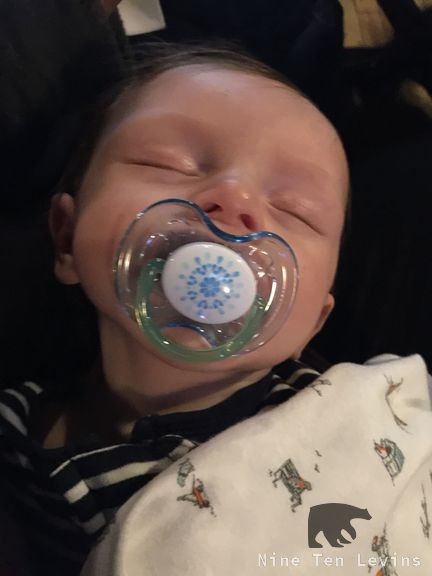
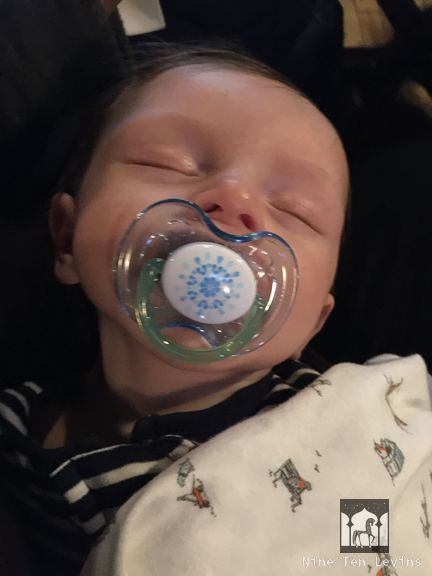
Fixed photos watermark.

Changed region(s): [[0.6019, 0.8438, 0.963, 1.0]]

diff --git a/drafts/soyouwanttojointheforeignservicepart3.html b/drafts/soyouwanttojointheforeignservicepart3.html
@@ -1,7 +1,7 @@
 <!DOCTYPE html>
 <html lang="en" prefix="og: http://ogp.me/ns# fb: https://www.facebook.com/2008/fbml">
 <head>
-    <title>So You Want to Join the Foreign Service, Part 1 - Nine Ten Levins</title>
+    <title>So You Want to Join the Foreign Service, Part 3 - Nine Ten Levins</title>
     <!-- Using the latest rendering mode for IE -->
     <meta http-equiv="X-UA-Compatible" content="IE=edge">
     <meta charset="utf-8">
@@ -11,20 +11,20 @@
     <link href="http://ninetenlevins.com/theme/images/apple-touch-icon.png" rel="icon">
     <link rel="apple-touch-icon" href="http://ninetenlevins.com/theme/images/apple-touch-icon.png">
 
-<link rel="canonical" href="http://ninetenlevins.com/drafts/soyouwanttojointheforeignservicepart1.html">
+<link rel="canonical" href="http://ninetenlevins.com/drafts/soyouwanttojointheforeignservicepart3.html">
 
         <meta name="author" content="Brian Levin" />
-        <meta name="keywords" content="Work" />
-        <meta name="description" content="Joining the Foreign Service, Part 1. Let’s follow Brian as he completes the FS IMS application." />
+        <meta name="keywords" content="Application" />
+        <meta name="description" content="Joining the Foreign Service, Part 3. Cramming For Orals." />
 
         <meta property="og:site_name" content="Nine Ten Levins" />
         <meta property="og:type" content="article"/>
-        <meta property="og:title" content="So You Want to Join the Foreign Service, Part 1"/>
-        <meta property="og:url" content="http://ninetenlevins.com/drafts/soyouwanttojointheforeignservicepart1.html"/>
-        <meta property="og:description" content="Joining the Foreign Service, Part 1. Let’s follow Brian as he completes the FS IMS application."/>
-        <meta property="article:published_time" content="2015-12-15" />
+        <meta property="og:title" content="So You Want to Join the Foreign Service, Part 3"/>
+        <meta property="og:url" content="http://ninetenlevins.com/drafts/soyouwanttojointheforeignservicepart3.html"/>
+        <meta property="og:description" content="Joining the Foreign Service, Part 3. Cramming For Orals."/>
+        <meta property="article:published_time" content="2016-02-20" />
             <meta property="article:section" content="Foreign Service" />
-            <meta property="article:tag" content="Work" />
+            <meta property="article:tag" content="Application" />
             <meta property="article:author" content="Brian Levin" />
 
 
@@ -85,10 +85,10 @@ role="navigation">
         <article>
             <header class="page-header">
                 <h1>
-                    <a href="http://ninetenlevins.com/drafts/soyouwanttojointheforeignservicepart1.html"
+                    <a href="http://ninetenlevins.com/drafts/soyouwanttojointheforeignservicepart3.html"
                        rel="bookmark"
-                       title="Permalink to So You Want to Join the Foreign Service, Part 1">
-                        So You Want to Join the Foreign Service, Part&nbsp;1
+                       title="Permalink to So You Want to Join the Foreign Service, Part 3">
+                        So You Want to Join the Foreign Service, Part&nbsp;3
                     </a>
                 </h1>
             </header>
@@ -100,8 +100,8 @@ role="navigation">
 <ol>
 <li><del>Meet the requirement for the position (e.g. get my <span class="caps">CISSP</span>)</del> <strong><em>Completed&nbsp;2015-09-20</em></strong></li>
 <li><del>Apply to the USAJobs posting</del> <strong><em>Completed&nbsp;2015-12-15</em></strong></li>
-<li>Pass qualified evaluations&nbsp;panel</li>
-<li>Pass the oral&nbsp;assessment</li>
+<li><del>Pass qualified evaluations panel</del> <strong><em>Completed&nbsp;2015-02-20</em></strong></li>
+<li><del>Pass the oral assessment</del> <strong><em>Completed&nbsp;2015-05-12</em></strong></li>
 <li>Get medical&nbsp;clearance</li>
 <li>Get security&nbsp;clearance</li>
 <li>Pass final suitability review&nbsp;panel</li>
@@ -109,25 +109,6 @@ role="navigation">
 <li>Be selected off the register for an A100&nbsp;class</li>
 <li>Success!</li>
 </ol>
-<h1 id="applications-away">Applications&nbsp;Away</h1>
-<p>I just put in my application to be a <a href="https://www.usajobs.gov/GetJob/ViewDetails/422461600">Foreign Service Information Management Specialist</a><sup id="fnref:1"><a class="footnote-ref" href="#fn:1" rel="footnote">1</a></sup>. I have always wanted to join the foreign service, but I was not interested in the generalist job activities. The Information Management Specialist matched my interests but you needed a degree in computer science or one of the <a href="https://careers.state.gov/work/foreign-service/specialist/career-track-quiz/ims">approved certifications</a>. For a long time I had neither. I have a degree in an applied social sciences<sup id="fnref:1.5"><a class="footnote-ref" href="#fn:1.5" rel="footnote">2</a></sup> and going back for a <span class="caps">CS</span> degree was unappealing. The shortest distance between me and my goal was to get a&nbsp;certification.</p>
-<p>I had waffled on getting the certification for years. The one that made the most sense was the <a href="https://www.isc2.org/cissp/default.aspx"><span class="caps">CISSP</span></a>. My job is mostly devops and infrastructure programming. A lot of my work is tied to security. I did not need a certification for my current<sup id="fnref:2"><a class="footnote-ref" href="#fn:2" rel="footnote">3</a></sup> or any of my previous jobs, so it was never a&nbsp;priority.</p>
-<p>This year was a bit of a roller coaster. My brother passed away and my wife is expecting our first born. I decided that life is short, it is now or never. I signed up for the <a href="https://www.isc2.org/cissp/default.aspx"><span class="caps">CISSP</span></a> exam in October and passed! Step one complete. After passing it was just a waiting game until they opened the application process. The call for applicants opened at the beginning of December and I have been working on the application ever since. I spent a good amount of time working on the essays and polishing my&nbsp;resume.</p>
-<p>I just submitted my application. I am very hopeful that I will advance in the process. Fingers&nbsp;crossed!</p>
-<div class="footnote">
-<hr/>
-<ol>
-<li id="fn:1">
-<p>I am not sure I will publish this blog entry. I guess it depends on my success in the application process. So, if you are reading this, I have been hired.&nbsp;<a class="footnote-backref" href="#fnref:1" rev="footnote" title="Jump back to footnote 1 in the text">↩</a></p>
-</li>
-<li id="fn:1.5">
-<p>I know what you are thinking, I wasted my youth. But, those were different times. We were so young and hopeful.&nbsp;<a class="footnote-backref" href="#fnref:1.5" rev="footnote" title="Jump back to footnote 2 in the text">↩</a></p>
-</li>
-<li id="fn:2">
-<p>Bonus! My current job paid for most of my certification because it was covered under career development funds. Turns out all I had to do was ask.&nbsp;<a class="footnote-backref" href="#fnref:2" rev="footnote" title="Jump back to footnote 3 in the text">↩</a></p>
-</li>
-</ol>
-</div>
                 </div>
               </div>
 <footer class="post-info">
@@ -135,7 +116,7 @@ role="navigation">
     <span class="text-muted">Publication Date: </span>
     <span class="published">
         <!-- <i class="fa fa-calendar"></i> -->
-        <time datetime="2015-12-15T07:39:00-05:00"> Tue 15 December 2015</time>
+        <time datetime="2016-02-20T21:12:00-05:00"> Sat 20 February 2016</time>
     </span>
 
 
@@ -143,7 +124,7 @@ role="navigation">
 
 
 <span class="text-muted">Tags: </span>
-	<a href="http://ninetenlevins.com/tag/work.html">Work</a>
+	<a href="http://ninetenlevins.com/tag/application.html">Application</a>
     
   </div>
 
@@ -157,7 +138,7 @@ role="navigation">
   <div class="panel-heading">
     <h4 class="panel-title">
       <a data-toggle="collapse" href="#series_content">
-        Part <built-in method index of unicode object at 0x10d2dd420> of the  series
+        Part <built-in method index of unicode object at 0x10d2e3ea0> of the  series
       </a>
     </h4>
   </div>
@@ -177,8 +158,8 @@ role="navigation">
             /* * * CONFIGURATION VARIABLES: EDIT BEFORE PASTING INTO YOUR WEBPAGE * * */
             var disqus_shortname = 'ninetenlevins'; // required: replace example with your forum shortname
 
-                    var disqus_identifier = 'soyouwanttojointheforeignservicepart1';
-                var disqus_url = 'http://ninetenlevins.com/drafts/soyouwanttojointheforeignservicepart1.html';
+                    var disqus_identifier = 'soyouwanttojointheforeignservicepart3';
+                var disqus_url = 'http://ninetenlevins.com/drafts/soyouwanttojointheforeignservicepart3.html';
 
             var disqus_config = function () {
                 this.language = "en";

diff --git a/drafts/whyilovevermont.html b/drafts/whyilovevermont.html
@@ -15,13 +15,13 @@
 
         <meta name="author" content="Brian Levin" />
         <meta name="keywords" content="VT,USA,Essay" />
-        <meta name="description" content="I loving living in Vermont. But you won’t." />
+        <meta name="description" content="I loving living in Vermont." />
 
         <meta property="og:site_name" content="Nine Ten Levins" />
         <meta property="og:type" content="article"/>
         <meta property="og:title" content="Why I Love Vermont"/>
         <meta property="og:url" content="http://ninetenlevins.com/drafts/whyilovevermont.html"/>
-        <meta property="og:description" content="I loving living in Vermont. But you won’t."/>
+        <meta property="og:description" content="I loving living in Vermont."/>
         <meta property="article:published_time" content="2016-06-19" />
             <meta property="article:section" content="Vermont" />
             <meta property="article:tag" content="VT" />
@@ -101,8 +101,9 @@ role="navigation">
                   <p>After having lived in New York<sup id="fnref:1"><a class="footnote-ref" href="#fn:1" rel="footnote">1</a></sup> for most of my life, the wife and I decided that we needed a change of scenery. We both had an affinity for Vermont. We had gotten engaged in Burlington<sup id="fnref:2"><a class="footnote-ref" href="#fn:2" rel="footnote">2</a></sup> and had spent many vacations in the Green Mountain State. We were a big fan of all parts of the state from Burlington to Manchester, from Lake Bomoseen to Lake&nbsp;Fairlee.</p>
 <p>The thought of moving to Vermont just seemed right. It seemed like the type of decision that was just meant to be. In 2012, we finally decided to pull the trigger. As my skills are more transportable, Sarah started looking for jobs in the area. Low and behold she found a perfect fit. I started the job hunt and with in a month or so, I was also gainfully employed and we took the leap and moved to the Green Mountain&nbsp;State.</p>
 <p>When I say we moved, I mean we went whole hog. Sarah wanted to live the authentic Vermont experience. We bought a smallish log cabin on the side of a mountain with more property that we can use. It is nestled next to a creek. Our nearest neighbor is a quarter mile away through dense woods. The dirt road to our house is a challenge in the summer and an impediment to all but the most persistent visitors in the&nbsp;winter.</p>
-<p>In the summer, there is so much to do, our cup runneth over. There is a hiking trail less that a half mile from our cabin. We hike it at least once a month. More if we can find the time. Sarah has filled our yard with gardens of the vegetable and flower variety. When it is warm and the snow has cleared from the mountain passes, Sarah and I sojourn all over the&nbsp;state. </p>
-<p>Log cabins are not known for their insulation. I have done much to insulate and  abate air penetration but there is only so much to be done. The best way to keep the log cabin warm is to produce heat. Our main source of heat is wood. The woodstove uses at a minimum six cords of wood in the house warm even in the warmest of winters. Eight cords for a standard Vermont winter has been our average and ten one particularly cold&nbsp;winter.</p>
+<p>In the summer, there is so much to do, our cup runneth over. There is a hiking trail less that a half mile from our cabin. We hike it at least once a month. More if we can find the time. Sarah has filled our yard with gardens of the vegetable and flower variety. When it is warm and the snow has cleared from the mountain passes, Sarah and I sojourn all over the&nbsp;state.</p>
+<p>Log cabins are not known for their insulation. I have done much to insulate and abate air penetration but there is only so much to be done. The best way to keep the log cabin warm is to produce heat. Our main source of heat is wood. The woodstove uses at a minimum six cords of wood in the house warm even in the warmest of winters. Eight cords for a standard Vermont winter has been our average and ten one particularly cold winter. Be it shoveling snow or bringing in wood, winter tends to be a time for quit&nbsp;contemplation.</p>
+<p>I know for some of you that does not sound like a great place to live. I think its rural charm could win almost anyone over. The quiet spirit of Vermont is the reason that we enjoy being here so much. It is the reason that we are glad we moved&nbsp;here.</p>
 <div class="footnote">
 <hr/>
 <ol>

diff --git a/drafts/soyouwanttojointheforeignservicepart2.html b/drafts/soyouwanttojointheforeignservicepart2.html
@@ -138,7 +138,7 @@ role="navigation">
   <div class="panel-heading">
     <h4 class="panel-title">
       <a data-toggle="collapse" href="#series_content">
-        Part <built-in method index of unicode object at 0x1020720f0> of the  series
+        Part <built-in method index of unicode object at 0x10d2dd210> of the  series
       </a>
     </h4>
   </div>
